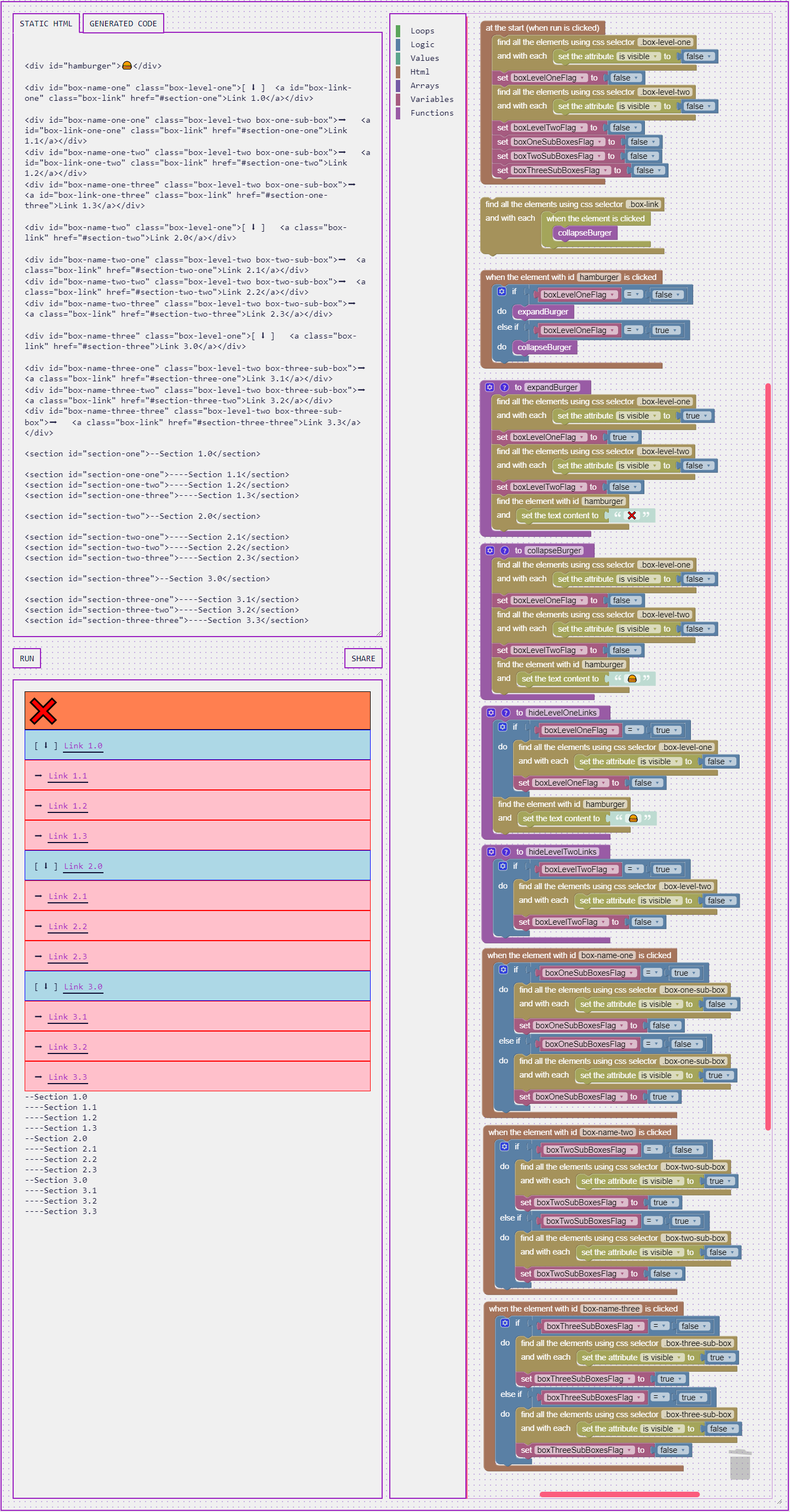
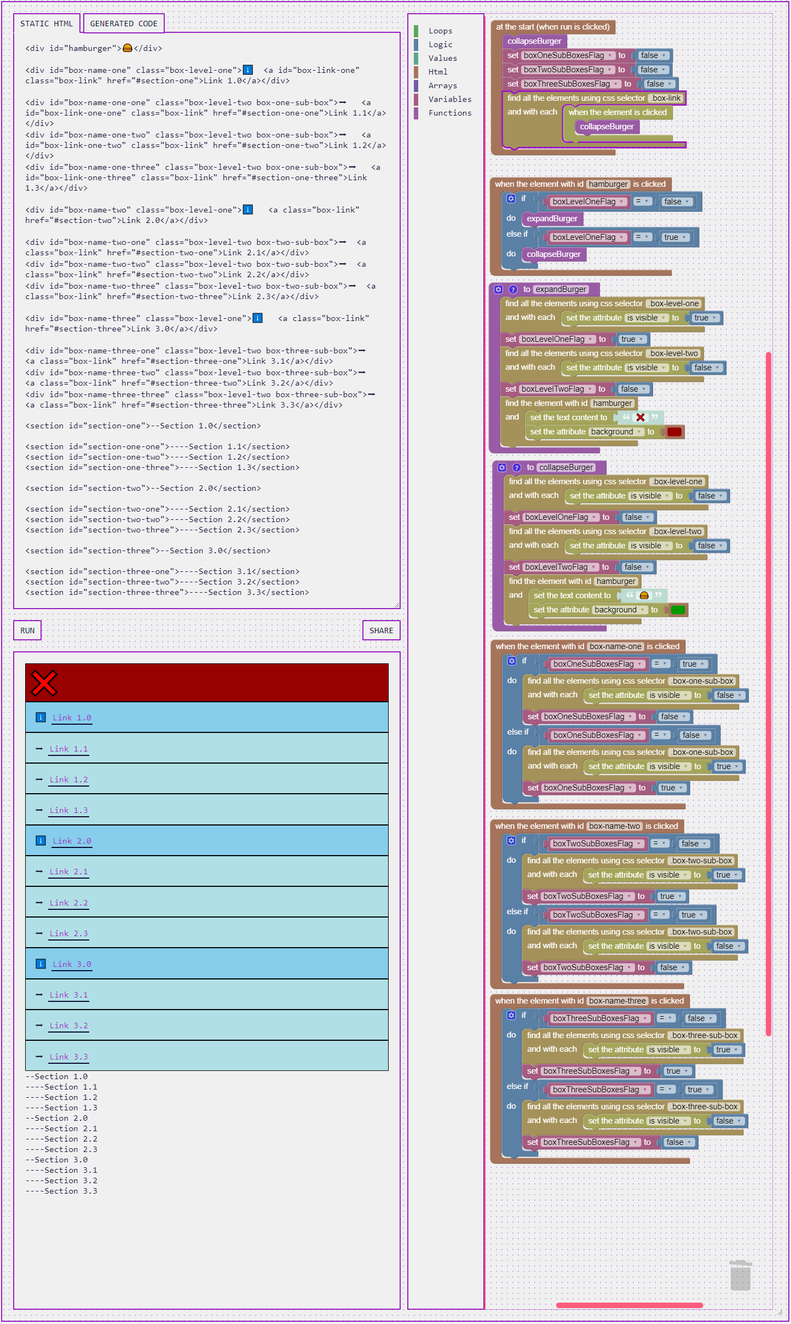
adjusted project 04 iteration

diff --git a/index.html b/index.html
@@ -335,56 +335,56 @@
             </section>
             <section>
                 <h2>Working Iteration on Blocks:</h2>
-                <a href="https://blocks.codeyourfuture.io/share.html?v=('j!('blocks!('languageVersion!0~blocks!%5B('type!'on_start'~id!'%5DLvs2%5Dpn--NF4yxrgG*%5B'~x!0~y!-220%C3%85TEXT1!'at%20the%20start%20%7Bwhen%20run%20is%20clicked%7D')%C2%BCHANDLER%C2%83%5B%2CS%5E1iRWb)qWlI%5Eh67%25N%C2%A9one%C2%82id!'_S-l%23%3B%7Bd%3BNVU%2B%5Ba9I3%2C)%C2%89%26d!'%2Bx81DrUCE'%3ADnzSRzMP%2FH%C2%85%C2%81v%7D94%60i%25lDp%7B8%2C%3F%40d%7Di%3F%2B%C2%8A%26d!'%5Ba.%5EXoadeSM%3AoWW-_a%2C'.%C2%85)~next%C2%83%5D%2B%3D)r%2CnIC66WR7%3A29O%60%60%C2%A9two%C2%82id!'axTzhvs17y%3DcHf%7CO(%2F%3Fv%C2%89%26d!'15hx%3Bo%2C%7BC'%3AG6djKh%5Bgk%25%C2%85%C2%81H%2B%7Cc2b%2C'DRNQ-4H*w6f3-%C2%8F%26d!'r%23FJ%3FsH3%24%3F%3AQnuu2_gL%5D%C2%B6%C2%81tFYl_Uo)PDqFBDIb%5E(9I%C2%8E%26d!'ZIze%7B%3B9_CcJJDdJ%3A%5BDO1%C2%B6%C2%81RUYa5Cf8D*-%60ZL%3B)%3BS%40t%C2%96%26d!'EF%60'%3AuuXY%40%3Bm%40Ec%40*%5D%3F%40%7D%C2%B6%C2%81%25x1Bbp%3A2AYz4s%24Sn%3DhLG%C2%94%26d!'%5Ewf-d.%5EP%25cFLmoJWGZ'%3Aj%C2%85)))))))))%C2%9D1NeobuDTjqF%2CQO%23hU'%3A)%5B'~x!0~y!235%C2%90hamburger'~TEXT2!'%C2%9B%C2%A4%3D%3Dw%40Dd%5D'%3A67MJmqr%7Cq)T4%C2%A2%C2%91vFr%3BmKIjFf%5De%23%3DhC)b2H%7F%C2%88'~id!'BYM%7CdWSUG4ueNwg%5Bcr%7C1%C2%8A%C2%8CEyO%7C7oyQ-p%25CnO%2C'2EPeC%C3%8A0%22%C2%A7wa%25Db0N%7C%23LenO4Fc%3Dxu%7D%C2%AFexpandBurger'%C2%A3%2C'px%3Ac4%2B*%5E5_Bqk%2Bj%2BF_z%7F%C2%88'~id!'Jzpu%60%2BX65HmY%60m%24%2CX.z7%C2%8A%C2%8C%3Fo0%5Dx4Iu%3DI%3FKCLVnj%5Bwc%C2%B11%22%C2%A7g%2F%605EjQ3%3A9I2%3DjN*qWNi%C2%AF%C3%8B'%C2%9D%7C%2F%3F%2Chp%5EHIPx2xc'%3A%5B%60%5DA*'~x!3~y!1473%C2%90box-name-one'~TEXT2!'%C2%9B%C2%A4bq)8A9t%40%25%5Evtvpa%7Ddx%2C7%C2%A2%C2%91YgSZhJ%7D7w-%258S-rNa%60bF%7F%C2%88'~id!''%3Au63%24T%2CAcx.%25%7Dh%2BE%23X%3D1%C2%8E%C2%8C7G1rB_%7CS%3Da5%2Fw%7DL.Hq%2C'%24%C2%B10%C2%83Nv5SAuZr*y%2BI1'%3A_GwyK%7B%C2%9Aone-sub-box%C2%82id!'k)%2BN%7B%3BlgyU5%2C'%2FiSRUqT%5D%C2%89%26d!'zUZVp%3AkuVm)p%60P'%3AXITze%C2%85%C2%812C3%24A%5BBX1%3D2.k%23mw5zQ%3B%C2%8E%26d!'iH%5Dixnzhr2ZA*NakUYK7%C2%85))%C2%A3F%2Cqiiag%7C%5D-.c1%25L%3AZdz%60%7F%C2%88'~id!'oEwY5D%5El_F%2B%60P'%3A_OUTYZ%C2%8E%C2%8CJ%7Ck5S%2C%2FceiOogzuQ33%5EE%C3%8A1%C2%839VhW2C%7DuZjbN.U%7CwK*%3Fu%C2%9Aone-sub-box%C2%82id!'-BB9.QA%7D2Xu4Ufh%23%604x%3A%C2%89%26d!'a%7C5D%2Fod9SjpE-%24pV%7BM_B%C2%92%C2%81sVVNp%5B(3YV%2FIQ%60c%2436%2FD%C2%8E%26d!'%2C'_1%40X%2C'R%40%2C(67rwvFK6gq%C2%92))%C2%9D.%2Fb%3D%5E%40%5B%60%3BF*jz8%40M%600m%60'~x!5~y!1796%C2%90box-name-two'~TEXT2!'%C2%9B%C2%A4y%5E%2F-qSkN%23DKi%3Aol1e%23I4%C2%A2%C2%91RAu4%2FVM%2B5)Cn%5EgB3n6sg%7F%C2%88'~id!'zZtL%3AZ%3AuuawO%3D%40M%5BUJOa%C2%96%C2%8C4%2C'KyzRKRKA*w73.-PLe7%C3%8A0%C2%83sxxLC%7D.Fw-d*XRv0Jff'%3A%C2%9Atwo-sub-box%C2%82id!'5_%23_CqB1J7x83UH5gxCf%C2%89%26d!'yD_fAs%3D%5Duk%7Bv1%7Dbj8T_q%C2%92%C2%81z%40A.Da5H4qCJV%23%5DFqmi%7C%C2%96%26d!'%7Do1Ei%2FyT%60y6%2B0_C6.%60QX%C2%92))%C2%A3*%601Z.d(Nk%3BN(QVC-B%60%40'%3A%7F%C2%88'~id!!Ob%3BsFHlU%23Q1%60aMk%2BpOx%C2%96%C2%8Ce%5BV%60W%40%2F3%24O%2B%2C'PS%2B0s.%5Bt%C2%B11%C2%83J%2CD%2C_*lAA04BSI1CP%3DP7%C2%9Atwo-sub-box%C2%82id!'xou1QUMyID0EHy*hW0uP%C2%89%26d!'D%60H%24uTtf_U*W%5DbL%23%7D%3F5%3A%C2%85%C2%81JH'%3AjWy%7BK%40c6yKg20j%2C'4%23%C2%96%26d!'%60YxnsY%2C'wzE%5DUXg0dLj28%C2%85))%C2%9Dxd9%60%3BX%7DwDAQbxoppfn%253'~x!6~y!2118%C2%90box-name-three'~TEXT2!'%C2%9B%C2%A4%7B%40i.c%60_vd%2C(%3BaLyW%238zf%C2%A2%C2%914R'%3AI'%3AQk%400%3D6(DwpC%2B%7DCf%7F%C2%88'~id!'4(JiRT7EumeA)7Tm)EIU%C2%94%C2%8C)'%3AyEF7%23i4htUYa'%3A%2B%2Fl-%60%C3%8A0%C2%83DR0b%5Eip%40(35LlnK9b0pT%C3%90%C2%82id!'HkuX8Zny*%2C'DzDaQS%7D1P2%C2%89%26d!'UfJzIF%3AQJtJLHdPo%3Ayo%5D%C2%92%C2%81gnM%60uK2%7D%2C'PL.%7CVxuCfhB%C2%94%26d!'t%7D5%7BS_A7%601DT0%7B%254j%5B%3FF%C2%92))%C2%A3%2Bm%7ClaMW%2FD(t'%3A%25q%3AS3k%3D%3A%7F%C2%88'~id!'9cs%3F%5D(OV4_D35%7D%7DgfY.e%C2%94%C2%8Ce3EBa%3D5vvF%7DqVsLjQqjk%C2%B11%C2%83ditDKzthIj*_16TW%3Dyq'%3A%C3%90%C2%82id!'7%3BCOkPzDR%7BCj%23%60%3Dq8%23V.%C2%89%26d!'h%3FZ9wG4Fw-ku%7DrLLV%60xh%C2%85%C2%81Ay.*60%40y%3Fd%2C%25skMG%3Di%3Da%C2%94%26d!'Uh8K%5D5%2C'f*09Pt%25Ew0%7C%5B%24%C2%85%C2%97s%2B4u0p.%249S%2C'8brTtK%7Di'%3A'~x!2~y!1030%C2%93%C2%98ME!'hideLevelOneLinks%C2%9F%22%C2%A4i.aR5%3F%60%40FowfNk%2BRars('%C2%91P-oRN6e%7Bhh-%40C4PC%2C'0h~%C3%85%C2%88'~id!'%5BqJK1%7CFs7paET%2CSE%7B%5BnP%C2%8A%C2%8C83B%60nS%7Dw%7D%60PBw0U1FJ%2C'L%C2%B10%C2%83%2C'%2F%7DltVxXfI4%7B*eEQNsA%23%C2%A9one%C2%82id!'Xdj_%7D83%7C4xT*U%2C'2Kk3_4%C2%89%26d!'oDe%2ClXaw%5B8C'%3Ar5D%5B*vH-%C2%85%C2%81onUA%24wN'%3AG%5DN%5BE%7Chg%2FI%2Fj%C2%8A%26d!'U%7C%24Z%5D%3BO7A%40vs(%3Dc%2Fi%3A%7D%25%C2%85)))))%C2%A5%2F%7C%7C0sm%2C80c%40yGN%5E*%7DUH3%7F%C2%AD%C3%89Y4%5EPb%5B2qR%7BejfKn9qvq%5D%C2%A0n7mTl%25YQ%25%2BTGB%5D%2C-%3BMVn%C3%88%C2%978R%60-dODZG2cVuRX2EtCO'~x!0~y!734%C2%93%C2%98ME!'%C3%8B%C2%9F%C2%837ERus%60s%2CkopV7ls%3AWN(g%C2%A9one%C2%82id!'EZ%25U*8*66V%5EnOF%25oYQts%C2%89%26d!'a%24aG%2BvYnQF'%3A-%2B9%2FV.zvx%C2%85%C2%81%7Dbv%238s%2BJ%2C'%5EB%7Bz0%5D0%3F(jx%C2%8A%26d!'RAmpHyaHXkBuo%23%7Do6T*N%C2%85)~next%C2%831WarZM03isr%7CtbKub)9U%C2%A9two%C2%82id!'j5Pu%7BJj7h%60KD%5E%60bS%7DvWP%C2%89%26d!'%3B8n9gSo2%3B%23c%60XWBcIp%3DY%C2%85%C2%81t%3B*6V%3Fwu9AYe%5D%2Fr8SsaV%C2%8F%26d!'Y8B%7D.%7DGIl)%3D'%3ABdjvh)%60V%C2%85%C2%A5X%5E%244BXi8(E%3DAQs*0oSey%7F%C2%AD%C3%89c%3A%2F%5D%25%3BLAbJd0%60%5D9j%5D%3Db(%C2%A0%5EfjaKyNP4gMA%3AC8p3Sll%C3%88))))))%C2%97cIG4DE%3D%5EFOlhX.xo%2Bi%60%60'~x!-1~y!436%C2%93%C2%98ME!'expandBurger%C2%9F%C2%83'%3A.SL0C%3Fq9VBEp4X%5EMGl3%C2%A9one%C2%82id!'W)tSL%60%5B5%2F-(z%2B%2C'12OoGR%C2%89%26d!'N.39diWi%2C%23%23i%3BK4l7d(l%C2%92%C2%81tZ8t%2BXOB8H8%25e0w.S%7C%7CO%C2%8A%26d!'lEpSws9Q%23cmhCo%2BX-%23cw%C2%92)~next%C2%83O%2F%7Bn)1r%3D%7B%7D16zB3f)3oW%C2%A9two%C2%82id!!%3D%40Is4vdRlw5-%2C'%2C'%5BB%2CFl%C2%89%26d!'oM%60yFo%5D%23Qdo%5Dh%25tZ-.iX%C2%85%C2%81Z%2CqjeK*%40Ii3TPFHfdPHQ%C2%8F%26d!'**%60%7Cw%7Cw1hAL%3DiM%2CZ%7Dm1g%C2%85%C2%A5r7)Yh8GZ%3Ap%3FBAcEKn%2C%2C'o%7F%C2%AD%C3%899%24-(1ZMK%5Bo%2C'hC%7C3s5R8j%C2%A0su%7B3lxUYEfOzXefnAbm4%7FTEXT!'%E2%9D%8C')))))))))%C2%97K'%3Ax%2COpDDWx%40%7BdZ%23S%3F%5B%2C4'~x!2~y!1284%C2%93%C2%98ME!'hideLevelTwoLinks%C2%9F%22%C2%A4V%608N%3ACW'%3Ak.ho%3A*i1l9%60%2B'%C2%91E%60%60PP%5EMwMu8i*R9%2Fo%5D%40q%7F%C2%88'~id!'pS9IBw_Ga4V*Dw%40._%7BQs%C2%8F%C2%8Ca)%2C'r%3Dh)w_%2B%3D*%5BmmY%5E%3A'%3A8%C2%B10%C2%832L%5D_p%25A1x6M21nZirBrR%C2%A9two%C2%82id!'OVB%2C'yM%3D%2BqtAzdh%3F.frSv%C2%89%26d!'5%24iG7%3D%3D%7B%40gZt6JejZm%2C's%C2%85%C2%81%3DGT0i%2CRI-liCcz3fvF%5Ba%C2%8F%26d!'-XeLC7_g%2C'5h%3Aa%5B.O-R4m%C2%85))%C2%B8%C2%BAPHO%40CzrmYuN'%3AQWix%23B%60X'~x!0~y!102%C3%85QUERY!'.box-link%C2%9F%22element_clicked_current'~id!'MCu%7Do%23o%25Av%24Gy%3F%24i%3Bc%3DX%7F%C2%BF%C2%9B%C2%A7p5JuuW%24Ruxv%3A.%2FAH3oD(%C2%AF%C3%8B'))))))))%5D)~variables!%5B('name!'boxLevelOneFlag'~id!'%C3%81%C2%A8boxOne%C2%BD%C3%80%C2%A8boxTwo%C2%BD%C3%87%C2%A8boxThree%C2%BD%C3%86%C2%A8boxLevelTwoFlag'~id!'%C3%82%C2%A8x'~id!'%2Fkf%2Cn%2Bx%2Fsp%7BCLp2%5DwSHI%C2%A8flag'~id!'hbs75DF3BOCw%3F*%3AdVqYO%C2%A8linkXSubLinksFlag'~id!'%7C)n)%3DAG3ermx5C7r%2C%23zx')%5D)~h!'%3Cstyle%3E%5Cn%23hamburger%20(%C2%BEblack%C2%AEcoral%3B%5Cnfont-size%3A%203rem%3B%5Cnheight%3A%2070px%3B%5Cn)%5Cn%5Cn.box-level-one%C2%A6blue%C2%AElightblue%C2%B0%5Cn.box-level-two%C2%A6red%C2%AEpink%C2%B0%3C%2Fstyle%3E%5Cn%5Cn%3Cdiv%C2%BBhamburger%5C'%3E%F0%9F%8D%94%3C%2Fdiv%3E%5Cn%C2%86one%C2%99%C3%8C%C3%84%C2%9E1.0%C2%AAone-one%C2%87%C2%A1one%C3%84-one%C2%9E1.1%C2%B2one-two%C2%87%C2%A1two%C3%84-two%C2%9E1.2%C2%B2one-three%C2%87%C2%A1three%C3%84-three%C2%9E1.3%C2%AAtwo%C2%99%20%3Ca%C2%80two%C2%9E2.0%C2%AAtwo-one%C2%B9%C2%80two-one%C2%9E2.1%C2%B2two-two%C2%B9%C2%80two-two%C2%9E2.2%C2%B2two-three%C2%B9%C2%80two-three%C2%9E2.3%C2%AAthree%C2%99%C2%AC%C2%9E3.0%C2%AAthree-one%C3%83%C2%AC-one%C2%9E3.1%C2%B2three-two%C3%83%C2%AC-two%C2%9E3.2%C2%B2three-three%C3%83%C2%AC-three%C2%9E3.3%C2%8D%5Cn%C2%84one%C2%B71.0%C2%ABone-one%C2%951%C2%B3one-two%C2%952%C2%B3one%C3%8E%C2%ABtwo%C2%B72.0%C2%ABtwo-one%C2%951%C2%B3two-two%C2%952%C2%B3two%C3%8E%C2%ABthree%C2%B73.0%C2%ABthree-one%C2%951%C2%B3three-two%C2%952%C2%B3three%C3%8E%C2%9C')%22!('block!('type!'%26)%C2%BCVALUE%C3%8F%7F'%C3%85%C2%80%C2%B4ink%5C'%20href%3D%5C'%23section-%C2%81))))~next%22variables_set'~id!'%C2%82%C2%9F%22set_attribute'~%C2%83%22%C2%BA%C2%84%5Cn%3Csection%C2%BBsection-%C2%85%C2%B6)))%C2%86%5Cn%3Cdiv%C2%BBbox-name-%C2%87%5C'%C2%B4evel-two%20box-%C2%88OP!'EQ')%C2%BCA%22variables_get%C2%89%7FPROPERTY!'visibility'%C2%8A%C2%B5%C3%81')%C2%8B-sub-box%5C'%3E%E2%9E%A1%20%20%C2%8C)))~B%C3%8Fd!'%C2%8D%3C%2Fa%3E%3C%2Fdiv%3E%C2%8E%C2%B5%C3%80')%C2%8F%C2%B5%C3%82')%C2%90%C3%85%C2%BFwith%20id'~ID!'%C2%91%C2%BCIF0%C3%8D%C2%92%7FBOOL!'TRUE')))%C2%93~icons!('comment!('text!'Describe%20this%20function..%C2%94%C2%B5%C3%86')%C2%95%5C'%3E----Section%201.%C2%96%C2%B5%C3%87')%C2%97))%C2%B8procedures_defnoreturn'~id!'%C2%98.'~pinned!false~height!80~width!160))%C3%85NA%C2%99%5C'%C2%B4evel-one%5C'%3E%5B%20%E2%AC%87%20%5D%20%20%C2%9A%7FQUERY!'.box-%C2%9Bis%20clicked')%C2%BCHANDLER%22%C2%9C%3C%2Fsection%3E%C2%9D%C2%B8element_clicked'~id!'%C2%9E%5C'%3ELink%20%C2%9F')%C2%BCSTACK%C2%A0'%C2%BCVALUE!('shadow!('type!'text'~id!'%C2%A1one%C2%8B%20%C3%8C-%C2%A2'~extraState!('elseIfCount!1)%C2%A3)))~IF1%C3%8D%C2%A4controls_if'~id!'%C2%A5)~next%22with_element_by_id'~id!'%C2%A6%20(%5Cndisplay%3A%20block%3B%C2%BE%C2%A7procedures_callnoreturn'~id!'%C2%A8')%2C('name!'%C2%A9%C2%9Alevel-%C2%AA%C2%8D%5Cn%C2%86%C2%AB%C2%9C%5Cn%C2%84%C2%AC%20%3Ca%C2%80three%C2%ADID!'hamburger%C2%9F%22se%C2%AE%3B%5Cnbackground%3A%20%C2%AF'~extraState!('name!'%C2%B0%3B%5Cnpadding%3A%201rem%3B%5Cn)%5Cn%C2%B1%C2%92)))~DO%C2%B2%C2%8D%C2%86%C2%B3%C2%9C%C2%84%C2%B4%20class%3D%5C'box-l%C2%B5%7FVAR!('id!'%C2%B6%7FBOOL!'FALSE'%C2%B7%5C'%3E--Section%20%C2%B8))))))))%2C('type!'%C2%B9%C2%87two%C2%8B%3Ca%C2%BAwith_elements_by_selector'~id!'%C2%BB%20id%3D%5C'%C2%BC~inputs!('%C2%BDSubBoxesFlag'~id!'%C2%BE%5Cnborder%3A%201px%20solid%20%C2%BFTEXT1!'when%20the%20element%20%C3%80rKI)X-%2C'5%3D%5BBJ8%2F9uHrdm%C3%81UXvM5(R8JFr%7DF%23%7DD%2BEIM%C3%82Tz%5EpoY_1Qfqx%5Bry%40%25U5d%C3%83%C2%87three%C2%8B%C3%84%5C'%C2%80one%C3%85~fields!('%C3%86m74%23ALUPAN%3FRa_%3B.dNDo%C3%87%2Cj5ZzX*'%3AggA5FhiX_cf2%C3%88%7FTEXT!'%F0%9F%8D%94')))%C3%89t_content'~id!'%C3%8A%C2%85)))~DO%C3%8BcollapseBurger%C3%8C%3Ca%C2%BBbox-link-one%C3%8D%22logic_compare'~id!'%C3%8E-three%C2%953%C3%8F%22logic_boolean'~i%C3%90%C2%9Athree-sub-box%01%C3%90%C3%8F%C3%8E%C3%8D%C3%8C%C3%8B%C3%8A%C3%89%C3%88%C3%87%C3%86%C3%85%C3%84%C3%83%C3%82%C3%81%C3%80%C2%BF%C2%BE%C2%BD%C2%BC%C2%BB%C2%BA%C2%B9%C2%B8%C2%B7%C2%B6%C2%B5%C2%B4%C2%B3%C2%B2%C2%B1%C2%B0%C2%AF%C2%AE%C2%AD%C2%AC%C2%AB%C2%AA%C2%A9%C2%A8%C2%A7%C2%A6%C2%A5%C2%A4%C2%A3%C2%A2%C2%A1%C2%A0%C2%9F%C2%9E%C2%9D%C2%9C%C2%9B%C2%9A%C2%99%C2%98%C2%97%C2%96%C2%95%C2%94%C2%93%C2%92%C2%91%C2%90%C2%8F%C2%8E%C2%8D%C2%8C%C2%8B%C2%8A%C2%89%C2%88%C2%87%C2%86%C2%85%C2%84%C2%83%C2%82%C2%81%C2%80%7F%26%22_" target="_blank" class="share-link">Share Link</a>
+                <a href="https://blocks.codeyourfuture.io/share.html?v=('j!('blocks!('languageVersion!0~blocks!%5B('type!'on_start'~id!'%5DLvs2%5Dpn--NF4yxrgG*%5B'~x!6~y!-304~fields!('TEXT1!'at%20the%20start%20%7Bwhen%20run%20is%20clicked%7D'%C2%9FHANDLER%22%C2%9EICL56Oz%3B4z6zs1J%2FWN7x%C2%A0%C2%BCtFYl_Uo)PDqFBDIb%5E(9I%C2%8E')%7Fd!'ZIze%7B%3B9_CcJJDdJ%3A%5BDO1%C3%81%C2%84RUYa5Cf8D*-%60ZL%3B)%3BS%40t%C2%90')%7Fd!'EF%60'%3AuuXY%40%3Bm%40Ec%40*%5D%3F%40%7D%C3%81%C2%84%25x1Bbp%3A2AYz4s%24Sn%3DhLG%C2%8F')%7Fd!'%5Ewf-d.%5EP%25cFLmoJWGZ'%3Aj%C2%89)~next%C2%82PHO%40CzrmYuN'%3AQWix%23B%60X%C2%9Alink'%C2%9FSTACK%22element_clicked_current'~id!'MCu%7Do%23o%25Av%24Gy%3F%24i%3Bc%3DX%26%C2%BA%C2%95%C2%9E4%40G_PcWD3ofZdAXnTlDt%C2%A0%C3%85)%C2%991NeobuDTjqF%2CQO%23hU'%3A)%5B'~x!4~y!-17%C2%8Dhamburger'~TEXT2!'%C2%95%C2%AA%3D%3Dw%40Dd%5D'%3A67MJmqr%7Cq)T4%C2%97%C2%94vFr%3BmKIjFf%5De%23%3DhC)b2H%26%C2%87'~id!'BYM%7CdWSUG4ueNwg%5Bcr%7C1%C2%98%C2%8CEyO%7C7oyQ-p%25CnO%2C'2EPeC%C3%840%22%C2%9Ewa%25Db0N%7C%23LenO4Fc%3Dxu%7D%C3%80name!'expandBurger'%C2%BF%2C'px%3Ac4%2B*%5E5_Bqk%2Bj%2BF_z%26%C2%87'~id!'Jzpu%60%2BX65HmY%60m%24%2CX.z7%C2%98%C2%8C%3Fo0%5Dx4Iu%3DI%3FKCLVnj%5Bwc%C3%831%22%C2%9Eg%2F%605EjQ3%3A9I2%3DjN*qWNi%C2%A0%C2%99%7C%2F%3F%2Chp%5EHIPx2xc'%3A%5B%60%5DA*'~x!6~y!827%C2%8Dbox-name-one'~TEXT2!'%C2%95%C2%AAbq)8A9t%40%25%5Evtvpa%7Ddx%2C7%C2%97%C2%94YgSZhJ%7D7w-%258S-rNa%60bF%26%C2%87'~id!''%3Au63%24T%2CAcx.%25%7Dh%2BE%23X%3D1%C2%8E%C2%8C7G1rB_%7CS%3Da5%2Fw%7DL.Hq%2C'%24%C3%830%C2%82Nv5SAuZr*y%2BI1'%3A_GwyK%7B%C2%9Aone-sub-box%C2%86id!'k)%2BN%7B%3BlgyU5%2C'%2FiSRUqT%5D%C2%8B%7Fd!'zUZVp%3AkuVm)p%60P'%3AXITze%C2%89%C2%842C3%24A%5BBX1%3D2.k%23mw5zQ%3B%C2%8E')%7Fd!'iH%5Dixnzhr2ZA*NakUYK7%C2%89))%C2%BFF%2Cqiiag%7C%5D-.c1%25L%3AZdz%60%26%C2%87'~id!'oEwY5D%5El_F%2B%60P'%3A_OUTYZ%C2%8E%C2%8CJ%7Ck5S%2C%2FceiOogzuQ33%5EE%C3%841%C2%829VhW2C%7DuZjbN.U%7CwK*%3Fu%C2%9Aone-sub-box%C2%86id!'-BB9.QA%7D2Xu4Ufh%23%604x%3A%C2%8B%7Fd!'a%7C5D%2Fod9SjpE-%24pV%7BM_B%C2%91%C2%84sVVNp%5B(3YV%2FIQ%60c%2436%2FD%C2%8E')%7Fd!'%2C'_1%40X%2C'R%40%2C(67rwvFK6gq%C2%91))%C2%99.%2Fb%3D%5E%40%5B%60%3BF*jz8%40M%600m%60'~x!5~y!1155%C2%8Dbox-name-two'~TEXT2!'%C2%95%C2%AAy%5E%2F-qSkN%23DKi%3Aol1e%23I4%C2%97%C2%94RAu4%2FVM%2B5)Cn%5EgB3n6sg%26%C2%87'~id!'zZtL%3AZ%3AuuawO%3D%40M%5BUJOa%C2%90%C2%8C4%2C'KyzRKRKA*w73.-PLe7%C3%840%C2%82sxxLC%7D.Fw-d*XRv0Jff'%3A%C2%9Atwo-sub-box%C2%86id!'5_%23_CqB1J7x83UH5gxCf%C2%8B%7Fd!'yD_fAs%3D%5Duk%7Bv1%7Dbj8T_q%C2%91%C2%84z%40A.Da5H4qCJV%23%5DFqmi%7C%C2%90')%7Fd!'%7Do1Ei%2FyT%60y6%2B0_C6.%60QX%C2%91))%C2%BF*%601Z.d(Nk%3BN(QVC-B%60%40'%3A%26%C2%87'~id!!Ob%3BsFHlU%23Q1%60aMk%2BpOx%C2%90%C2%8Ce%5BV%60W%40%2F3%24O%2B%2C'PS%2B0s.%5Bt%C3%831%C2%82J%2CD%2C_*lAA04BSI1CP%3DP7%C2%9Atwo-sub-box%C2%86id!'xou1QUMyID0EHy*hW0uP%C2%8B%7Fd!'D%60H%24uTtf_U*W%5DbL%23%7D%3F5%3A%C2%89%C2%84JH'%3AjWy%7BK%40c6yKg20j%2C'4%23%C2%90')%7Fd!'%60YxnsY%2C'wzE%5DUXg0dLj28%C2%89))%C2%99xd9%60%3BX%7DwDAQbxoppfn%253'~x!5~y!1474%C2%8Dbox-name-three'~TEXT2!'%C2%95%C2%AA%7B%40i.c%60_vd%2C(%3BaLyW%238zf%C2%97%C2%944R'%3AI'%3AQk%400%3D6(DwpC%2B%7DCf%26%C2%87'~id!'4(JiRT7EumeA)7Tm)EIU%C2%8F%C2%8C)'%3AyEF7%23i4htUYa'%3A%2B%2Fl-%60%C3%840%C2%82DR0b%5Eip%40(35LlnK9b0pT%C3%8D%C2%86id!'HkuX8Zny*%2C'DzDaQS%7D1P2%C2%8B%7Fd!'UfJzIF%3AQJtJLHdPo%3Ayo%5D%C2%91%C2%84gnM%60uK2%7D%2C'PL.%7CVxuCfhB%C2%8F')%7Fd!'t%7D5%7BS_A7%601DT0%7B%254j%5B%3FF%C2%91))%C2%BF%2Bm%7ClaMW%2FD(t'%3A%25q%3AS3k%3D%3A%26%C2%87'~id!'9cs%3F%5D(OV4_D35%7D%7DgfY.e%C2%8F%C2%8Ce3EBa%3D5vvF%7DqVsLjQqjk%C3%831%C2%82ditDKzthIj*_16TW%3Dyq'%3A%C3%8D%C2%86id!'7%3BCOkPzDR%7BCj%23%60%3Dq8%23V.%C2%8B%7Fd!'h%3FZ9wG4Fw-ku%7DrLLV%60xh%C2%89%C2%84Ay.*60%40y%3Fd%2C%25skMG%3Di%3Da%C2%8F')%7Fd!'Uh8K%5D5%2C'f*09Pt%25Ew0%7C%5B%24%C2%89%C2%A38R%60-dODZG2cVuRX2EtCO'~x!9~y!500%C2%A2%C2%A4ME!'collapseB%C2%AB%C2%827ERus%60s%2CkopV7ls%3AWN(g%C3%82one%C2%86id!'EZ%25U*8*66V%5EnOF%25oYQts%C2%8B%7Fd!'a%24aG%2BvYnQF'%3A-%2B9%2FV.zvx%C2%89%C2%84%7Dbv%238s%2BJ%2C'%5EB%7Bz0%5D0%3F(jx%C2%98')%7Fd!'RAmpHyaHXkBuo%23%7Do6T*N%C2%89)~next%C2%821WarZM03isr%7CtbKub)9U%C3%82two%C2%86id!'j5Pu%7BJj7h%60KD%5E%60bS%7DvWP%C2%8B%7Fd!'%3B8n9gSo2%3B%23c%60XWBcIp%3DY%C2%89%C2%84t%3B*6V%3Fwu9AYe%5D%2Fr8SsaV%C3%89%C2%A1%7Fd!'Y8B%7D.%7DGIl)%3D'%3ABdjvh)%60V%C2%89%C2%B2X%5E%244BXi8(E%3DAQs*0oSey%26ID!'hamb%C2%AB%C3%8Bc%3A%2F%5D%25%3BLAbJd0%60%5D9j%5D%3Db(%C2%A7%5EfjaKyNP4gMA%3AC8p3Sll%26TEXT!'%F0%9F%8D%94%C2%B5oAVoSx.86je.nG'%3Aa2%2B%2C'M%26%C2%AC%C3%886%5D%7DD*Xzui7K1O1%3B(*n%5E7%26COLOUR!'%23009900'%C3%85)%C2%A3cIG4DE%3D%5EFOlhX.xo%2Bi%60%60'~x!2~y!175%C2%A2%C2%A4ME!'expandB%C2%AB%C2%82'%3A.SL0C%3Fq9VBEp4X%5EMGl3%C3%82one%C2%86id!'W)tSL%60%5B5%2F-(z%2B%2C'12OoGR%C2%8B%7Fd!'N.39diWi%2C%23%23i%3BK4l7d(l%C2%91%C2%84tZ8t%2BXOB8H8%25e0w.S%7C%7CO%C2%98')%7Fd!'lEpSws9Q%23cmhCo%2BX-%23cw%C2%91)~next%C2%82O%2F%7Bn)1r%3D%7B%7D16zB3f)3oW%C3%82two%C2%86id!!%3D%40Is4vdRlw5-%2C'%2C'%5BB%2CFl%C2%8B%7Fd!'oM%60yFo%5D%23Qdo%5Dh%25tZ-.iX%C2%89%C2%84Z%2CqjeK*%40Ii3TPFHfdPHQ%C3%89%C2%A1%7Fd!'**%60%7Cw%7Cw1hAL%3DiM%2CZ%7Dm1g%C2%89%C2%B2r7)Yh8GZ%3Ap%3FBAcEKn%2C%2C'o%26ID!'hamb%C2%AB%C3%8B9%24-(1ZMK%5Bo%2C'hC%7C3s5R8j%C2%A7su%7B3lxUYEfOzXefnAbm4%26TEXT!'%E2%9D%8C%C2%B5S%7Ch%25WQi9Az5%2Bl%24wAS3%25I%26%C2%AC%C3%88nN%5BrQfg%7BT%25%2B%40%3B1z%5D4Ke%2B%26COLOUR!'%23990000'%C3%85%C3%85)%5D)~variables!%5B('name!'boxLevelOneFlag'~%C2%B4%C2%A9boxOne%C3%86%C2%B1%C2%A9boxTwo%C3%86%C2%BB%C2%A9boxThree%C3%86%C2%B9%C2%A9boxLevelTwoFlag'~%C2%A1%2C('name!'x'~id!'%2Fkf%2Cn%2Bx%2Fsp%7BCLp2%5DwSHI%C2%A9flag'~id!'hbs75DF3BOCw%3F*%3AdVqYO%C2%A9linkXSubLinksFlag'~id!'%7C)n)%3DAG3ermx5C7r%2C%23zx')%5D)~h!'%3Cstyle%3E%5Cn%23hamburger%20(%C2%9Cfont-size%3A%203rem%3B%5Cnheight%3A%2070px%3B%5Cn%C3%8Aone%20%C2%B7background%3A%20sky%C2%AF%C3%8Atwo%20%C2%B7background%3A%20powder%C2%AF%5Cn)%5Cn%3C%2Fstyle%3E%5Cn%5Cn%3Cdiv%C2%B8hamburger%5C'%3E%F0%9F%8D%94%3C%2Fdiv%3E%5Cn%C2%83one%C2%93%C3%87%C2%BE%C2%9B1.0%C2%A5one-one%C2%85%C2%9Done%C2%BE-one%C2%9B1.1%C2%ADone-two%C2%85%C2%9Dtwo%C2%BE-two%C2%9B1.2%C2%ADone-three%C2%85%C2%9Dthree%C2%BE-three%C2%9B1.3%C2%A5two%C2%93%20%3Ca%C2%80two%C2%9B2.0%C2%A5two-one%C2%B6%C2%80two-one%C2%9B2.1%C2%ADtwo-two%C2%B6%C2%80two-two%C2%9B2.2%C2%ADtwo-three%C2%B6%C2%80two-three%C2%9B2.3%C2%A5three%C2%93%C2%A8%C2%9B3.0%C2%A5three-one%C2%BD%C2%A8-one%C2%9B3.1%C2%ADthree-two%C2%BD%C2%A8-two%C2%9B3.2%C2%ADthree-three%C2%BD%C2%A8-three%C2%9B3.3%C2%8A%5Cn%C2%81one%C2%B31.0%C2%A6one-one%C2%921.1%C2%AEone-two%C2%921.2%C2%AEone-three%C2%921.3%C2%A6two%C2%B32.0%C2%A6two-one%C2%922.1%C2%AEtwo-two%C2%922.2%C2%AEtwo-three%C2%922.3%C2%A6three%C2%B33.0%C2%A6three-one%C2%923.1%C2%AEthree-two%C2%923.2%C2%AEthree-three%C2%923.3%C2%96')%22!('block!('type!'%26'~fields!('%7F%C2%9FVALUE%C3%8C%C2%80%C2%B0ink%5C'%20href%3D%5C'%23section-%C2%81%5Cn%3Csection%C2%B8section-%C2%82%22with_elements_by_selector'~id!'%C2%83%5Cn%3Cdiv%C2%B8box-name-%C2%84)))%C2%BC%C2%85%5C'%C2%B0evel-two%20box-%C2%86'%C2%9FSTACK%22set_attribute'~%C2%87OP!'EQ'%C2%9FA%22variables_get%C2%88-sub-box%5C'%3E%E2%9E%A1%20%20%C2%89%C3%81)))%C2%8A%3C%2Fa%3E%3C%2Fdiv%3E%C2%8B%26PROPERTY!'visibility'%C2%8C'))))~B%C3%8Cd!'%C2%8D~fields!('%C2%BAwith%20id'~ID!'%C2%8E%C3%89%C2%B1%C2%8F%C3%89%C2%B9%C2%90%C3%89%C2%BB%C2%91%26BOOL!'TRUE')))%C2%92%5C'%3E----Section%20%C2%93%5C'%C2%B0evel-one%5C'%3E%E2%AC%87%EF%B8%8F%20%20%C2%94%22logic_compare'~id!'%C2%95is%20clicked'%C2%9FHANDLER%22%C2%96%3C%2Fsection%3E%C2%97%C3%80elseIfCount!1%C2%9FIF0%C2%98%C3%89%C2%B4%C2%99))))))))%2C('type!'element_clicked'~id!'%C2%9A%26QUERY!'.box-%C2%9B%5C'%3ELink%20%C2%9C%5Cnborder%3A%200.1rem%20solid%20black%3B%5Cn%C2%9Done%C2%88%20%C3%87-%C2%9Eprocedures_callnoreturn'~id!'%C2%9F)~inputs!('%C2%A0%C3%80name!'collapseBurger'%C2%A1id!'Tz%5EpoY_1Qfqx%5Bry%40%25U5d')%C2%A2~icons!('comment!('text!'Describe%20this%20function..%C2%A3%C3%85%2C('type!'procedures_defnoreturn'~id!'%C2%A4.'~pinned!false~height!80~width!160))~fields!('NA%C2%A5%C2%8A%5Cn%C2%83%C2%A6%C2%96%5Cn%C2%81%C2%A7'~inputs!('VALUE!('shadow!('type!'text'~id!'%C2%A8%20%3Ca%C2%80three%C2%A9')%2C('name!'%C2%AAcontrols_if'~id!'%C2%ABurger'%C2%9FSTACK%C2%ACPROPERTY!'backgroundColor'%C2%9FVALUE%C2%AD%C2%8A%C2%83%C2%AE%C2%96%C2%81%C2%AFblue%3B%5Cnpadding%3A%201rem%3B%5Cn%C2%B0%20class%3D%5C'box-l%C2%B1id!'rKI)X-%2C'5%3D%5BBJ8%2F9uHrdm%C2%B2)~next%22with_element_by_id'~id!'%C2%B3%5C'%3E--Section%20%C2%B4id!'UXvM5(R8JFr%7DF%23%7DD%2BEIM%C2%B5'))))~next%22set_attribute'~id!'%C2%B6%C2%85two%C2%88%3Ca%C2%B7(%5Cndisplay%3A%20block%3B%C2%9C%C2%B8%20id%3D%5C'%C2%B9id!'m74%23ALUPAN%3FRa_%3B.dNDo%C2%BATEXT1!'when%20the%20element%20%C2%BBid!'%2Cj5ZzX*'%3AggA5FhiX_cf2%C2%BC)~next%22variables_set'~id!'%C2%BD%C2%85three%C2%88%C2%BE%5C'%C2%80one%C2%BF)))~IF1%C2%94%C3%80'~extraState!('%C3%81%26BOOL!'FALSE'%C3%82%C2%9Alevel-%C3%83%C2%91)))~DO%C3%84%C2%89)))~DO%C3%85))))))))))%C3%86SubBoxesFlag'~%C3%87%3Ca%C2%B8box-link-one%C3%88%22colour_picker'~id!'%C3%89%26VAR!('%C3%8A)%5Cn%5Cn.box-level-%C3%8B%22set_content'~id!'%C3%8C%22logic_boolean'~i%C3%8D%C2%9Athree-sub-box%01%C3%8D%C3%8C%C3%8B%C3%8A%C3%89%C3%88%C3%87%C3%86%C3%85%C3%84%C3%83%C3%82%C3%81%C3%80%C2%BF%C2%BE%C2%BD%C2%BC%C2%BB%C2%BA%C2%B9%C2%B8%C2%B7%C2%B6%C2%B5%C2%B4%C2%B3%C2%B2%C2%B1%C2%B0%C2%AF%C2%AE%C2%AD%C2%AC%C2%AB%C2%AA%C2%A9%C2%A8%C2%A7%C2%A6%C2%A5%C2%A4%C2%A3%C2%A2%C2%A1%C2%A0%C2%9F%C2%9E%C2%9D%C2%9C%C2%9B%C2%9A%C2%99%C2%98%C2%97%C2%96%C2%95%C2%94%C2%93%C2%92%C2%91%C2%90%C2%8F%C2%8E%C2%8D%C2%8C%C2%8B%C2%8A%C2%89%C2%88%C2%87%C2%86%C2%85%C2%84%C2%83%C2%82%C2%81%C2%80%7F%26%22_" target="_blank" class="share-link">Share Link</a>
                 <img src="images/04-hamburger-menu/04-hamburger-menu-blocks-002.png" alt="" class="blocks-screenshot">
             </section>
             <section>
                 <h2>Working Iteration on Deployed Site:</h1>
                     <section class="deployment">
                         <div id="hamburger">🍔</div>
-                        
-                        <div id="box-name-one" class="box-level-one">[ ⬇ ] <a id="box-link-one" class="box-link" href="#section-one-zero">Link
-                                1.0</a></div>
-                        
+
+                        <div id="box-name-one" class="box-level-one">⬇ <a class="box-link" href="#section-one-zero">Link 1.0</a>
+                        </div>
+
                         <div id="box-name-one-one" class="box-level-two box-one-sub-box">➡ <a id="box-link-one-one" class="box-link"
                                 href="#section-one-one">Link 1.1</a></div>
                         <div id="box-name-one-two" class="box-level-two box-one-sub-box">➡ <a id="box-link-one-two" class="box-link"
                                 href="#section-one-two">Link 1.2</a></div>
                         <div id="box-name-one-three" class="box-level-two box-one-sub-box">➡ <a id="box-link-one-three" class="box-link"
                                 href="#section-one-three">Link 1.3</a></div>
-                        
-                        <div id="box-name-two" class="box-level-one">[ ⬇ ] <a class="box-link" href="#section-two-zero">Link 2.0</a></div>
-                        
+
+                        <div id="box-name-two" class="box-level-one">⬇ <a class="box-link" href="#section-two-zero">Link 2.0</a></div>
+
                         <div id="box-name-two-one" class="box-level-two box-two-sub-box">➡ <a class="box-link" href="#section-two-one">Link
                                 2.1</a></div>
                         <div id="box-name-two-two" class="box-level-two box-two-sub-box">➡ <a class="box-link" href="#section-two-two">Link
                                 2.2</a></div>
                         <div id="box-name-two-three" class="box-level-two box-two-sub-box">➡ <a class="box-link" href="#section-two-three">Link
                                 2.3</a></div>
-                        
-                        <div id="box-name-three" class="box-level-one">[ ⬇ ] <a class="box-link" href="#section-three-zero">Link 3.0</a></div>
-                        
+
+                        <div id="box-name-three" class="box-level-one">⬇ <a class="box-link" href="#section-three-zero">Link 3.0</a></div>
+
                         <div id="box-name-three-one" class="box-level-two box-three-sub-box">➡ <a class="box-link"
                                 href="#section-three-one">Link 3.1</a></div>
                         <div id="box-name-three-two" class="box-level-two box-three-sub-box">➡ <a class="box-link"
                                 href="#section-three-two">Link 3.2</a></div>
                         <div id="box-name-three-three" class="box-level-two box-three-sub-box">➡ <a class="box-link"
                                 href="#section-three-three">Link 3.3</a></div>
-                        
+
                         <section id="section-one-zero">--Section 1.0</section>
-                        
+
                         <section id="section-one-one">----Section 1.1</section>
                         <section id="section-one-two">----Section 1.2</section>
                         <section id="section-one-three">----Section 1.3</section>
-                        
+
                         <section id="section-two-zero">--Section 2.0</section>
-                        
+
                         <section id="section-two-one">----Section 2.1</section>
                         <section id="section-two-two">----Section 2.2</section>
                         <section id="section-two-three">----Section 2.3</section>
-                        
+
                         <section id="section-three-zero">--Section 3.0</section>
-                        
+
                         <section id="section-three-one">----Section 3.1</section>
                         <section id="section-three-two">----Section 3.2</section>
                         <section id="section-three-three">----Section 3.3</section>

diff --git a/js/main.js b/js/main.js
@@ -381,89 +381,54 @@ document.getElementById('navigation').addEventListener('click', (event) => {
 
 
 // HAMBURGER MENU ITERATION
-var boxLevelOneFlag, boxOneSubBoxesFlag, boxTwoSubBoxesFlag, boxThreeSubBoxesFlag, boxLevelTwoFlag;
+var boxOneSubBoxesFlag, boxLevelOneFlag, boxTwoSubBoxesFlag, boxThreeSubBoxesFlag, boxLevelTwoFlag;
 
 // Describe this function...
 function expandBurger() {
     if (--window.LoopTrap <= 0) throw "Infinite loop.";
-    document.querySelectorAll('.box-level-one').forEach((selectedElement4) => {
-        selectedElement4.style.visibility = (true) ? 'visible' : 'hidden';
+    document.querySelectorAll('.box-level-one').forEach((selectedElement2) => {
+        selectedElement2.style.visibility = (true) ? 'visible' : 'hidden';
 
     });
     boxLevelOneFlag = true;
-    document.querySelectorAll('.box-level-two').forEach((selectedElement5) => {
-        selectedElement5.style.visibility = (false) ? 'visible' : 'hidden';
+    document.querySelectorAll('.box-level-two').forEach((selectedElement3) => {
+        selectedElement3.style.visibility = (false) ? 'visible' : 'hidden';
 
     });
     boxLevelTwoFlag = false;
     let element_hamburger = document.getElementById('hamburger');
     element_hamburger.innerText = '❌';
+    element_hamburger.style.backgroundColor = '#990000';
 }
 
 // Describe this function...
 function collapseBurger() {
     if (--window.LoopTrap <= 0) throw "Infinite loop.";
-    document.querySelectorAll('.box-level-one').forEach((selectedElement6) => {
-        selectedElement6.style.visibility = (false) ? 'visible' : 'hidden';
+    document.querySelectorAll('.box-level-one').forEach((selectedElement4) => {
+        selectedElement4.style.visibility = (false) ? 'visible' : 'hidden';
 
     });
     boxLevelOneFlag = false;
-    document.querySelectorAll('.box-level-two').forEach((selectedElement7) => {
-        selectedElement7.style.visibility = (false) ? 'visible' : 'hidden';
+    document.querySelectorAll('.box-level-two').forEach((selectedElement5) => {
+        selectedElement5.style.visibility = (false) ? 'visible' : 'hidden';
 
     });
     boxLevelTwoFlag = false;
     let element_hamburger2 = document.getElementById('hamburger');
     element_hamburger2.innerText = '🍔';
-}
-
-// Describe this function...
-function hideLevelOneLinks() {
-    if (--window.LoopTrap <= 0) throw "Infinite loop.";
-    if (boxLevelOneFlag == true) {
-        document.querySelectorAll('.box-level-one').forEach((selectedElement8) => {
-            selectedElement8.style.visibility = (false) ? 'visible' : 'hidden';
-
-        });
-        boxLevelOneFlag = false;
-    }
-    let element_hamburger3 = document.getElementById('hamburger');
-    element_hamburger3.innerText = '🍔';
-}
-
-// Describe this function...
-function hideLevelTwoLinks() {
-    if (--window.LoopTrap <= 0) throw "Infinite loop.";
-    if (boxLevelTwoFlag == true) {
-        document.querySelectorAll('.box-level-two').forEach((selectedElement9) => {
-            selectedElement9.style.visibility = (false) ? 'visible' : 'hidden';
-
-        });
-        boxLevelTwoFlag = false;
-    }
+    element_hamburger2.style.backgroundColor = '#009900';
 }
 
 
-document.querySelectorAll('.box-level-one').forEach((selectedElement) => {
-    selectedElement.style.visibility = (false) ? 'visible' : 'hidden';
-
-});
-boxLevelOneFlag = false;
-document.querySelectorAll('.box-level-two').forEach((selectedElement2) => {
-    selectedElement2.style.visibility = (false) ? 'visible' : 'hidden';
-
-});
-boxLevelTwoFlag = false;
+collapseBurger();
 boxOneSubBoxesFlag = false;
 boxTwoSubBoxesFlag = false;
 boxThreeSubBoxesFlag = false;
+document.querySelectorAll('.box-link').forEach((selectedElement) => {
 
-document.querySelectorAll('.box-link').forEach((selectedElement3) => {
-
-    selectedElement3.addEventListener('click', (event) => {
+    selectedElement.addEventListener('click', (event) => {
         collapseBurger();
-        // Baz: I have to add this because Event Propagation causes uninted behaviour
-        event.stopPropagation();
+
     });
 });
 
@@ -479,14 +444,14 @@ document.getElementById('hamburger').addEventListener('click', (event) => {
 
 document.getElementById('box-name-one').addEventListener('click', (event) => {
     if (boxOneSubBoxesFlag == true) {
-        document.querySelectorAll('.box-one-sub-box').forEach((selectedElement10) => {
-            selectedElement10.style.visibility = (false) ? 'visible' : 'hidden';
+        document.querySelectorAll('.box-one-sub-box').forEach((selectedElement6) => {
+            selectedElement6.style.visibility = (false) ? 'visible' : 'hidden';
 
         });
         boxOneSubBoxesFlag = false;
     } else if (boxOneSubBoxesFlag == false) {
-        document.querySelectorAll('.box-one-sub-box').forEach((selectedElement11) => {
-            selectedElement11.style.visibility = (true) ? 'visible' : 'hidden';
+        document.querySelectorAll('.box-one-sub-box').forEach((selectedElement7) => {
+            selectedElement7.style.visibility = (true) ? 'visible' : 'hidden';
 
         });
         boxOneSubBoxesFlag = true;
@@ -496,14 +461,14 @@ document.getElementById('box-name-one').addEventListener('click', (event) => {
 
 document.getElementById('box-name-two').addEventListener('click', (event) => {
     if (boxTwoSubBoxesFlag == false) {
-        document.querySelectorAll('.box-two-sub-box').forEach((selectedElement12) => {
-            selectedElement12.style.visibility = (true) ? 'visible' : 'hidden';
+        document.querySelectorAll('.box-two-sub-box').forEach((selectedElement8) => {
+            selectedElement8.style.visibility = (true) ? 'visible' : 'hidden';
 
         });
         boxTwoSubBoxesFlag = true;
     } else if (boxTwoSubBoxesFlag == true) {
-        document.querySelectorAll('.box-two-sub-box').forEach((selectedElement13) => {
-            selectedElement13.style.visibility = (false) ? 'visible' : 'hidden';
+        document.querySelectorAll('.box-two-sub-box').forEach((selectedElement9) => {
+            selectedElement9.style.visibility = (false) ? 'visible' : 'hidden';
 
         });
         boxTwoSubBoxesFlag = false;
@@ -513,14 +478,14 @@ document.getElementById('box-name-two').addEventListener('click', (event) => {
 
 document.getElementById('box-name-three').addEventListener('click', (event) => {
     if (boxThreeSubBoxesFlag == false) {
-        document.querySelectorAll('.box-three-sub-box').forEach((selectedElement14) => {
-            selectedElement14.style.visibility = (true) ? 'visible' : 'hidden';
+        document.querySelectorAll('.box-three-sub-box').forEach((selectedElement10) => {
+            selectedElement10.style.visibility = (true) ? 'visible' : 'hidden';
 
         });
         boxThreeSubBoxesFlag = true;
     } else if (boxThreeSubBoxesFlag == true) {
-        document.querySelectorAll('.box-three-sub-box').forEach((selectedElement15) => {
-            selectedElement15.style.visibility = (false) ? 'visible' : 'hidden';
+        document.querySelectorAll('.box-three-sub-box').forEach((selectedElement11) => {
+            selectedElement11.style.visibility = (false) ? 'visible' : 'hidden';
 
         });
         boxThreeSubBoxesFlag = false;

diff --git a/css/styles.css b/css/styles.css
@@ -319,7 +319,7 @@ p {
 }
 
 #hamburger {
-    border: 1px solid black;
+    border: 0.1rem solid black;
     background: coral;
     font-size: 3rem;
     height: 70px;
@@ -327,14 +327,14 @@ p {
 
 .box-level-one {
     display: block;
-    border: 1px solid blue;
-    background: lightblue;
+    border: 0.1rem solid black;
+    background: skyblue;
     padding: 1rem;
 }
 
 .box-level-two {
     display: block;
-    border: 1px solid red;
-    background: pink;
+    border: 0.1rem solid black;
+    background: powderblue;
     padding: 1rem;
 }
